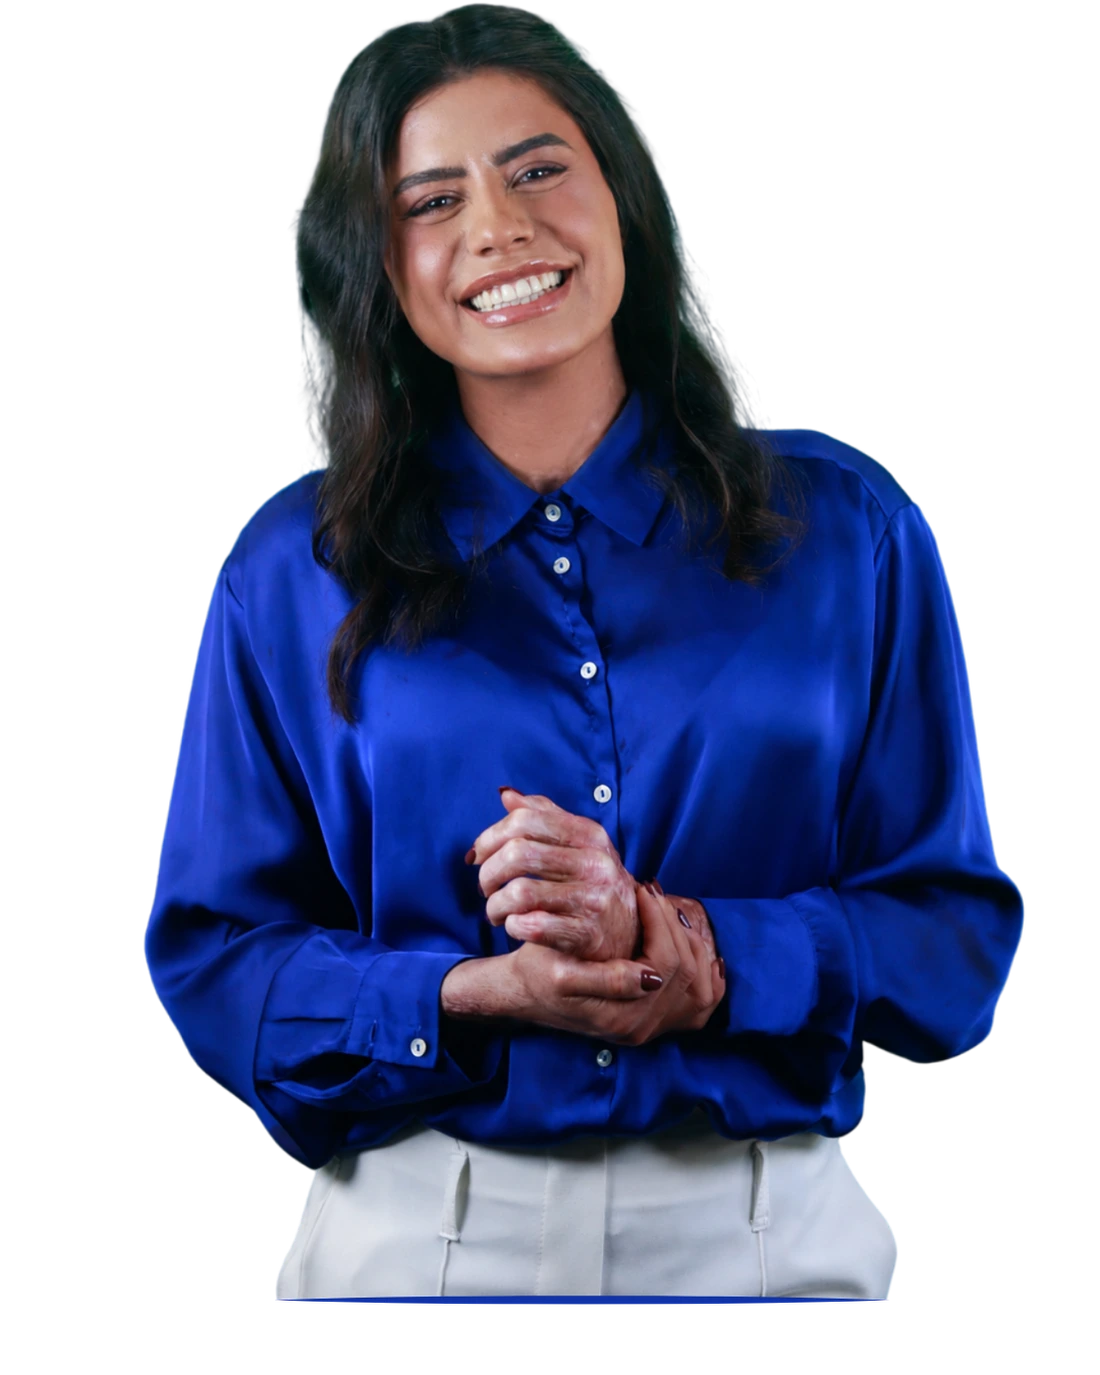
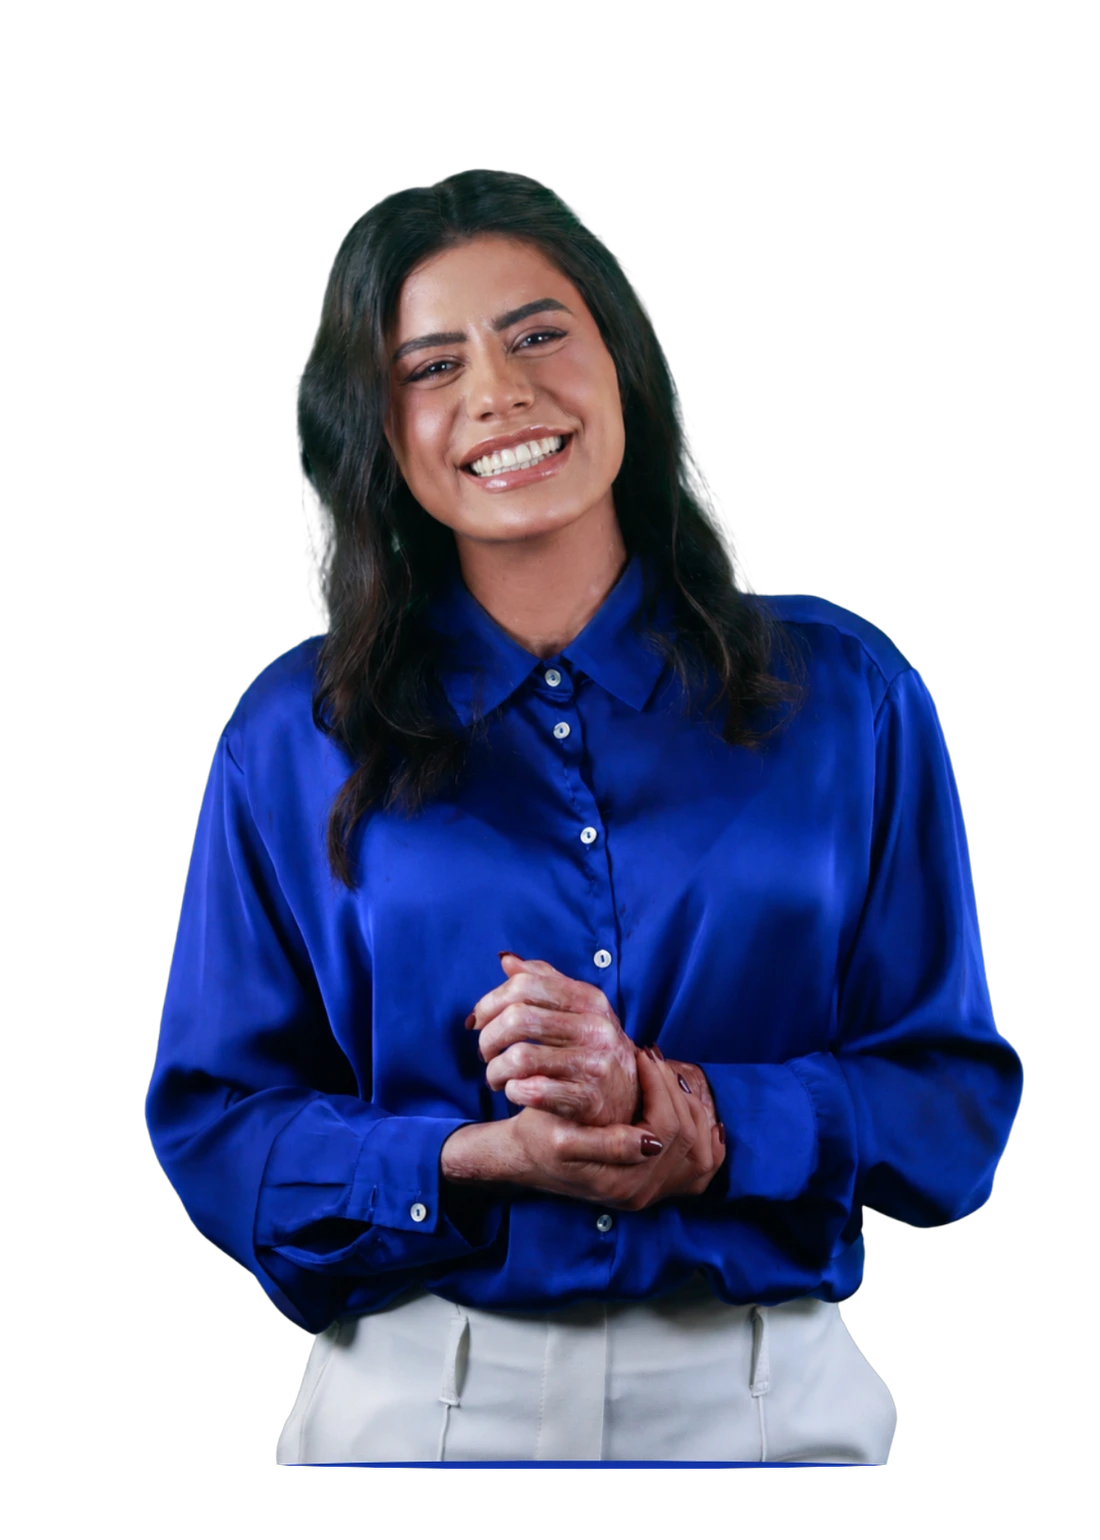
Corrige corte da cabeça no card "Quem é" e card desalinhado em pautas
A foto oficial tinha quase zero de espaço acima da cabeça da
candidata, então qualquer crop (object-fit: cover) no card "Quem é
Juliane" cortava o topo do cabelo. Adiciona ~11% de margem
transparente no topo da imagem (aplicado a todos os usos) e remove o
zoom (scale) padrão do card, mantendo-o só no hover.

Remove também a centralização especial do último card em "Outras
Pautas": a regra vazava para a faixa de largura de tablet com
especificidade maior que o reset mobile, deixando o card "Proteção às
Mulheres" estreito e destoante dos demais. Agora todos os cards da
grade se comportam de forma idêntica em qualquer largura.

Claude-Session: https://claude.ai/code/session_01ATGQgf8zyVySea34Cf3RvK

diff --git a/src/styles/Issues.css b/src/styles/Issues.css
@@ -56,34 +56,14 @@
   color: var(--ink-soft);
 }
 
-.issues__grid > :last-child:nth-child(3n + 1) {
-  grid-column: 2;
-}
-
 @media (max-width: 980px) {
   .issues__grid {
     grid-template-columns: repeat(2, 1fr);
-  }
-
-  .issues__grid > :last-child:nth-child(3n + 1) {
-    grid-column: auto;
-  }
-
-  .issues__grid > :last-child:nth-child(2n + 1) {
-    grid-column: 1 / -1;
-    max-width: calc(50% - 12px);
-    margin: 0 auto;
   }
 }
 
 @media (max-width: 640px) {
   .issues__grid {
     grid-template-columns: 1fr;
-  }
-
-  .issues__grid > :last-child {
-    grid-column: auto;
-    max-width: none;
-    margin: 0;
   }
 }

diff --git a/src/components/Hero.tsx b/src/components/Hero.tsx
@@ -64,7 +64,7 @@ export function Hero() {
                 alt="Juliane Vieira, candidata a Deputada Estadual, sorrindo"
                 className="hero__photo-img"
                 width={1100}
-                height={1375}
+                height={1540}
                 fetchPriority="high"
               />
             </picture>

diff --git a/src/styles/About.css b/src/styles/About.css
@@ -33,12 +33,11 @@
   height: 100%;
   object-fit: cover;
   object-position: top center;
-  transform: scale(1.02);
   transition: transform 0.6s var(--ease);
 }
 
 .about__photo:hover .about__photo-frame img {
-  transform: scale(1.08);
+  transform: scale(1.05);
 }
 
 .about__photo-badge {
